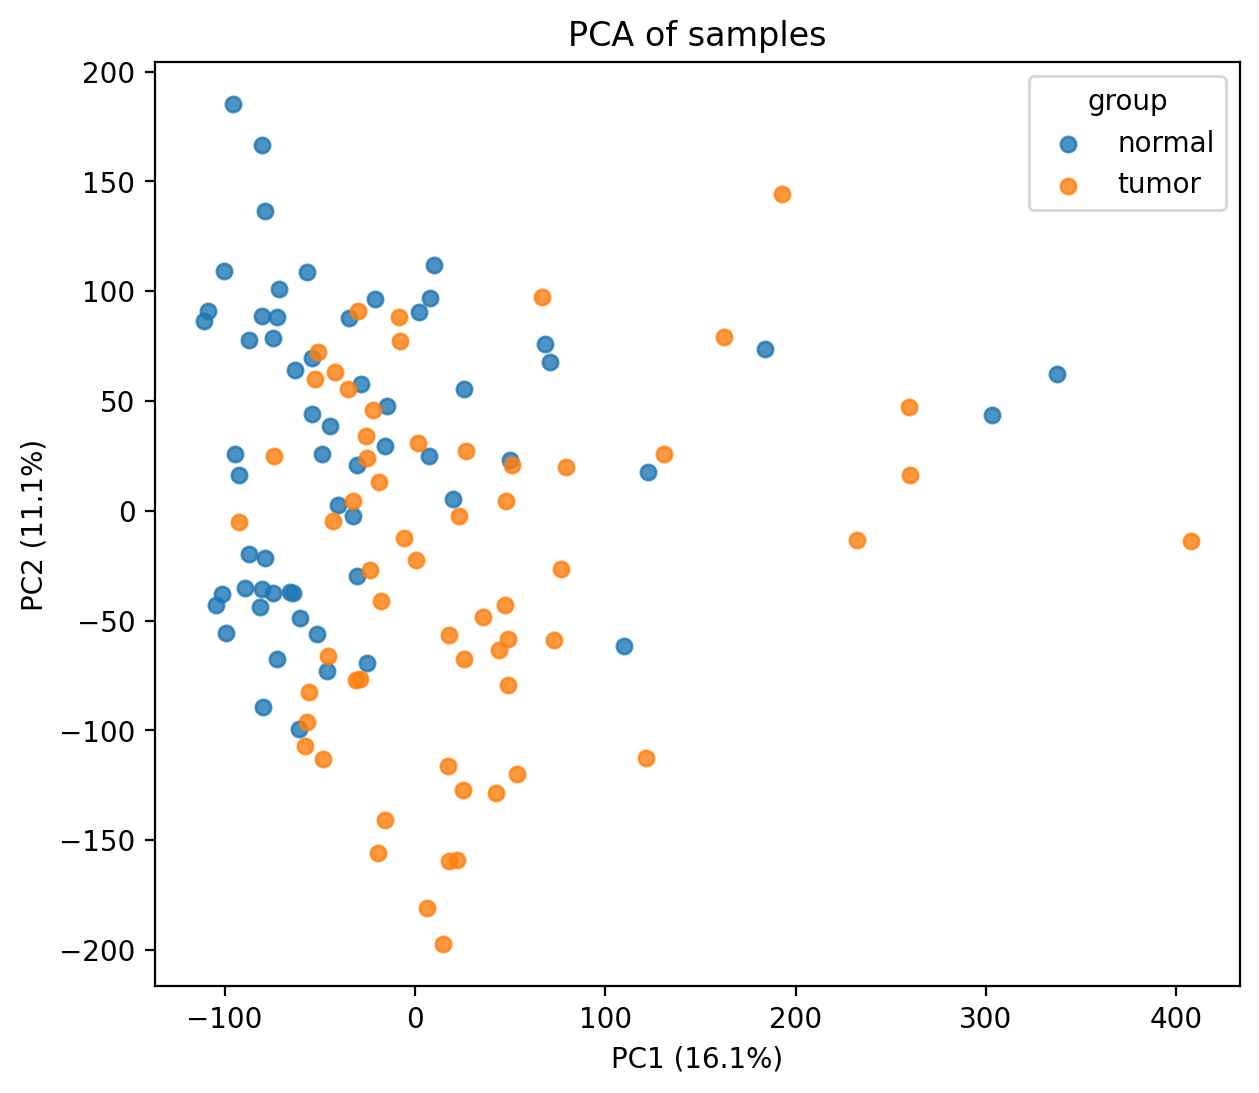
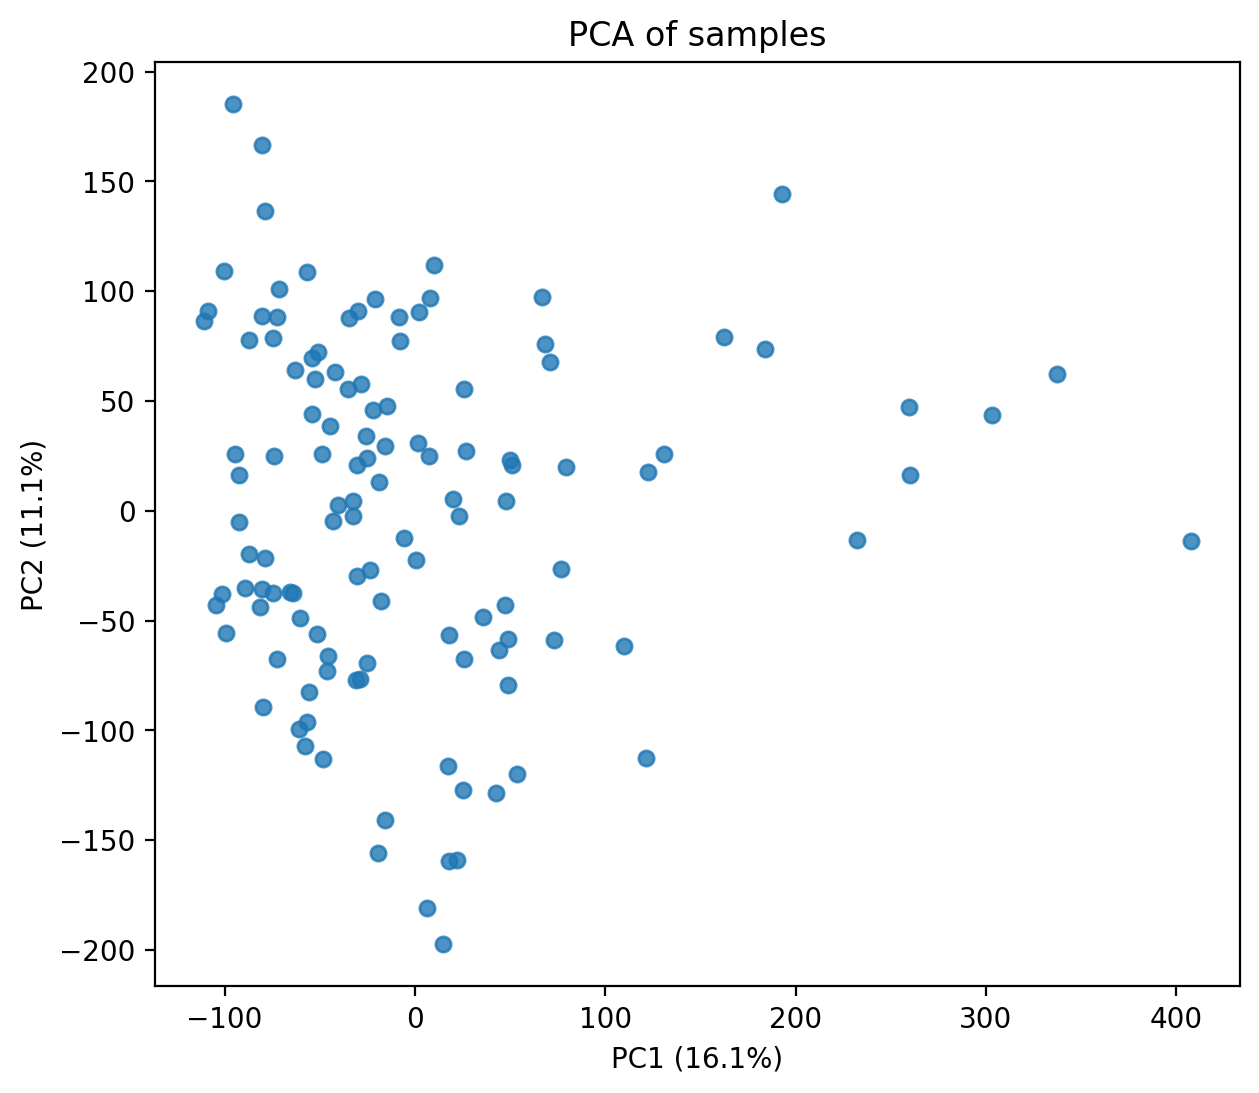
ge pipeline testing

diff --git a/analyze_gene_expression/ge.py b/analyze_gene_expression/ge.py
@@ -22,16 +22,6 @@ logger = logging.getLogger('ge')
 
 _RESULT_ROOT = 'result'
 
-# dispatch table
-_HANDLERS = {
-    'eda': _cmd_eda,
-    'diffex': _cmd_diffex,
-    'volcano': _cmd_volcano,
-    'heatmap': _cmd_heatmap,
-    'compare': _cmd_compare,
-    'all': _cmd_all,
-}
-
 # Configure logger
 def _configure_logging(verbose: bool) -> None:
     level = logging.DEBUG if verbose else logging.INFO
@@ -96,8 +86,18 @@ def _build_parser() -> argparse.ArgumentParser:
     cmp_p.add_argument('--accession-b', required=True)
     cmp_p.add_argument('--group-col', required=True,
                     help='metadata column used for both datasets')
-    cmp_p.add_argument('--group-a', required=True)
-    cmp_p.add_argument('--group-b', required=True)
+    cmp_p.add_argument('--group-a', required=True,
+                    help='shared label for group A; also default substring in both datasets')
+    cmp_p.add_argument('--group-b', required=True,
+                    help='shared label for group B; also default substring in both datasets')
+    cmp_p.add_argument('--group-a-substring-a',
+                    help="substring matching group_a in accession_a's metadata (default: --group-a)")
+    cmp_p.add_argument('--group-a-substring-b',
+                    help="substring matching group_a in accession_b's metadata (default: --group-a)")
+    cmp_p.add_argument('--group-b-substring-a',
+                    help="substring matching group_b in accession_a's metadata (default: --group-b)")
+    cmp_p.add_argument('--group-b-substring-b',
+                    help="substring matching group_b in accession_b's metadata (default: --group-b)")
     cmp_p.add_argument('--adj-p-max', type=float, default=0.05)
     cmp_p.add_argument('--abs-log2fc-min', type=float, default=1.0)
    
@@ -158,11 +158,8 @@ def _cmd_volcano(args: argparse.Namespace) -> None:
     )
 
 def _cmd_heatmap(args: argparse.Namespace) -> None:
-    expression, samples, annotation = su.load_geo_dataset(args.accession, cache_dir=_data_dir(),)
-    samples = su.assign_groups(
-        samples,
-        source_col=args.group_col,
-        substrings={args.group_a: args.group_a, args.group_b: args.group_b},
+    expression, samples, _ = _load_and_group(
+        args.accession, args.group_col, args.group_a, args.group_b
     )
     de = pd.read_csv(_de_csv_path(args.accession, args.from_results))
     out_png = os.path.join(_accession_dir(args.accession),'heatmap.png')
@@ -174,13 +171,22 @@ def _cmd_heatmap(args: argparse.Namespace) -> None:
     )
 
 def _cmd_compare(args: argparse.Namespace) -> None:
-    de_a = _diffex_for(args.accession_a, args)
-    de_b = _diffex_for(args.accession_b,args)
+    de_a = _diffex_for(
+        args.accession_a, args,
+        substring_a=args.group_a_substring_a or args.group_a,
+        substring_b=args.group_b_substring_a or args.group_b,
+    )
+    de_b = _diffex_for(
+        args.accession_b, args,
+        substring_a=args.group_a_substring_b or args.group_a,
+        substring_b=args.group_b_substring_b or args.group_b,
+    )
 
     out_dir = os.path.join(
-        _result_root(),
+        _RESULT_ROOT,
         f"compare_{args.accession_a}_vs_{args.accession_b}",
     )
+    os.makedirs(out_dir, exist_ok=True)
     compare.run_compare(
         de_a, de_b, out_dir,
         label_a=args.accession_a, label_b=args.accession_b,
@@ -189,12 +195,17 @@ def _cmd_compare(args: argparse.Namespace) -> None:
     )
 
 # helper for compare
-def _diffex_for(accession: str, args: argparse.Namespace) -> pd.DataFrame:
-    expression, samples, annotation = su.load_geo_dataset(accession, cache_dir=_data_dir())
+def _diffex_for(
+    accession: str,
+    args: argparse.Namespace,
+    substring_a: str,
+    substring_b: str,
+) -> pd.DataFrame:
+    expression, samples, annotation = su.load_geo_dataset(accession)
     samples = su.assign_groups(
-        samples, 
+        samples,
         source_col=args.group_col,
-        substrings={args.group_a:args.group_a, args.group_b: args.group_b},
+        substrings={args.group_a: substring_a, args.group_b: substring_b},
     )
     return diffex.run_diffex(
         expression, samples, annotation,
@@ -204,6 +215,15 @@ def _diffex_for(accession: str, args: argparse.Namespace) -> pd.DataFrame:
         print_head=False,
     )
 
+
+# dispatch table
+_HANDLERS = {
+    'eda': _cmd_eda,
+    'diffex': _cmd_diffex,
+    'volcano': _cmd_volcano,
+    'heatmap': _cmd_heatmap,
+    'compare': _cmd_compare,
+}
 
 def main(argv: list[str] | None=None) -> None:
     parser = _build_parser()

diff --git a/analyze_gene_expression/gene_expression_plan.md b/analyze_gene_expression/gene_expression_plan.md
@@ -1740,12 +1740,7 @@ cmp_p.add_argument('--adj-p-max', type=float, default=0.05)
 cmp_p.add_argument('--abs-log2fc-min', type=float, default=1.0)
 ```
 
-`--group-col` / `--group-a` / `--group-b` are reused for both datasets, which is wrong for the recommended GSE19804/GSE10072 pairing: GSE19804's `source_name_ch1` says `"... tumor ..."` while GSE10072's says `"Adenocarcinoma of the Lung"`. Same biology, different wording. Two ways out:
-
-1. **Per-dataset substrings (preferred).** Add `--tumor-substring-a` / `--tumor-substring-b` (and similar for normal) so the user can map each dataset's wording onto a shared `group` label. Both datasets still get assigned `group='tumor'` / `group='normal'` so `run_compare`'s join works unchanged.
-2. **Document and skip the CLI for cross-cohort runs.** Tell the user to drop into Python and call `run_compare` directly with two pre-collapsed `de_results` frames built using whatever per-dataset substrings each one needs (this is what the verification snippet below does).
-
-Pick (1) for v1 if `compare` is a first-class subcommand; otherwise document (2) in [readme.md](readme.md).
+`--group-col` is shared across both datasets, but the substrings used to identify each group can differ — GSE19804's `source_name_ch1` says `"... tumor ..."` while GSE10072's says `"Adenocarcinoma of the Lung"`. To handle that, the CLI accepts four optional override flags: `--group-a-substring-a`, `--group-a-substring-b`, `--group-b-substring-a`, `--group-b-substring-b`. Each defaults to its corresponding `--group-a` / `--group-b` value, so users with consistent wording across cohorts don't need to set anything. Both datasets still get assigned `group='tumor'` / `group='normal'` (or whatever labels are passed) so `run_compare`'s join works unchanged. Example for the GSE19804/GSE10072 pair: `--group-a tumor --group-b normal --group-a-substring-b adenocarcinoma`.
 
 ### Verification
 
@@ -1856,9 +1851,9 @@ After implementation, verify end-to-end against a real GEO series:
    - Writes `de.csv`. Spot-check: well-known lung cancer markers (e.g. `SPP1`, `MMP1`) should appear near the top.
 4. `python analyze_gene_expression/ge.py volcano --accession GSE19804 --from-results result/GSE19804/de.csv`
    - Open `volcano.png` — should show the characteristic volcano shape with red/blue wings.
-5. `python analyze_gene_expression/ge.py heatmap --accession GSE19804 --from-results result/GSE19804/de.csv --top 50`
+5. `python analyze_gene_expression/ge.py heatmap --accession GSE19804 --group-col source_name_ch1 --group-a tumor --group-b normal --from-results result/GSE19804/de.csv --top 50`
    - Open `heatmap.png` — dendrogram should cluster tumor samples away from normal samples.
-6. `python analyze_gene_expression/ge.py compare --accession-a GSE19804 --accession-b GSE10072 --group-a tumor --group-b normal`
+6. `python analyze_gene_expression/ge.py compare --accession-a GSE19804 --accession-b GSE10072 --group-col source_name_ch1 --group-a tumor --group-b normal --group-a-substring-b adenocarcinoma`
    - `log2fc_scatter.png` should show positive Pearson r — the same biology across cohorts.
 7. Re-run step 2 — should hit the GEOparse cache and finish in seconds (no re-download).
 
